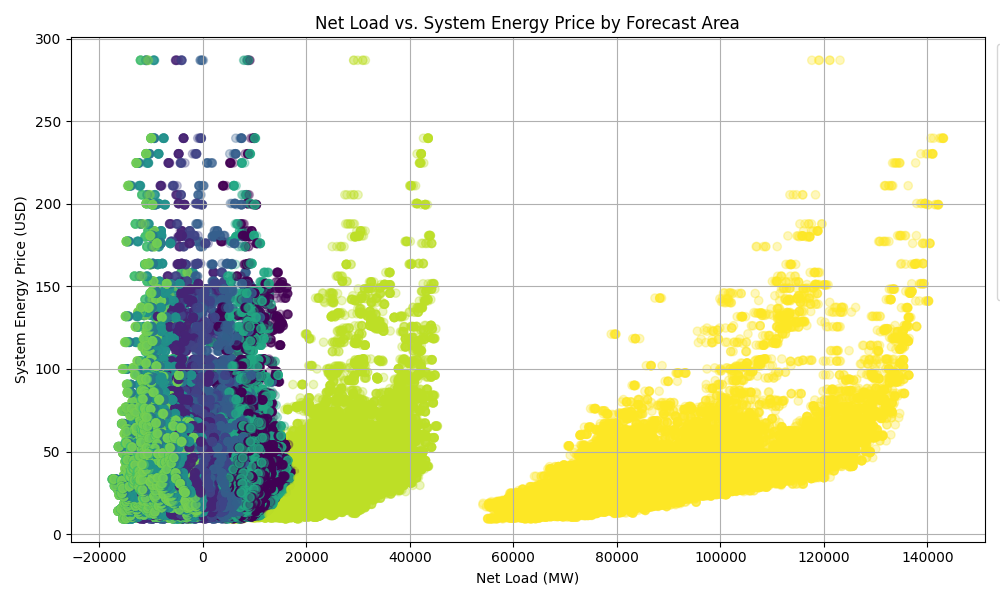
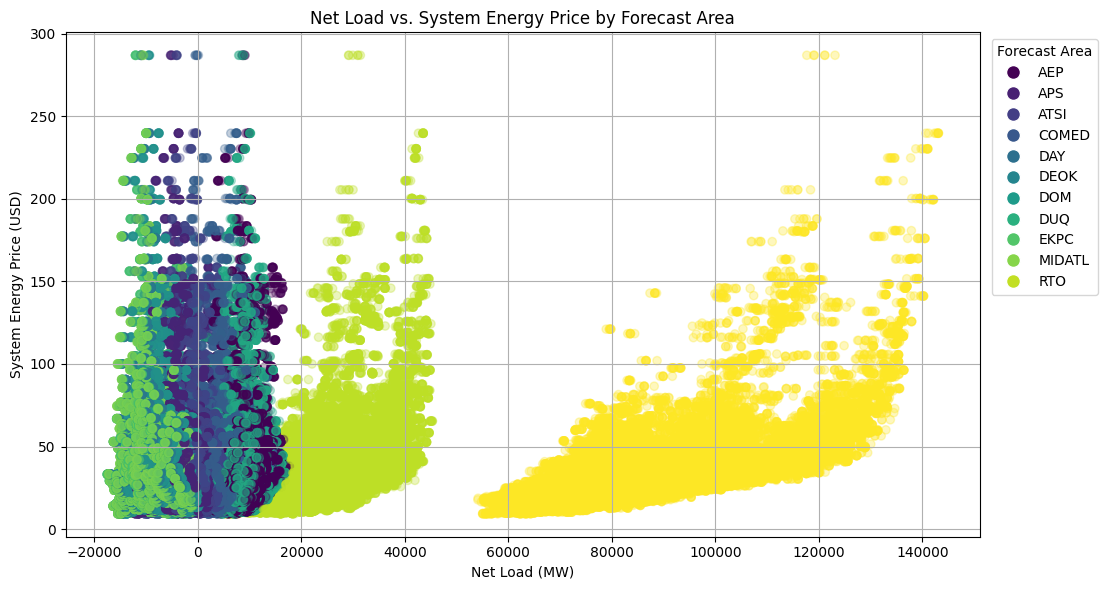
updated readme

Changed region(s): [[0.0, 0.0, 1.0, 0.9763]]

diff --git a/README.md b/README.md
@@ -1,5 +1,5 @@
 
-#CFT Energy Analysis
+# CFT Energy Analysis
 
 This repository contains the analysis and results of a cyclicality study of energy prices and net load in relation to fuel types, using historical data and various visualization techniques. The primary focus is on understanding the cyclic nature of energy prices and how different fuel types affect these prices on an hourly, daily, and monthly basis.
 
@@ -10,34 +10,52 @@ This repository contains the analysis and results of a cyclicality study of ener
 4. [Setup Instructions](#setup-instructions)
 5. [Analysis Breakdown](#analysis-breakdown)
 6. [Results](#results)
+7. [Key Figures](#key-figures)
 
 ## Project Overview
-The `CFT NME Energy Analysis` project aims to analyze the cyclicality of energy prices and their relationship with net load (load minus renewable generation), broken down into hourly, weekly, and monthly patterns. It uses data preparation, cyclicality analysis, and polynomial regression to identify patterns between energy prices and net load.
+The `CFT Energy Analysis` project aims to analyze the cyclicality of energy prices and their relationship with net load (load minus renewable generation), broken down into hourly, weekly, and monthly patterns. It uses data preparation, cyclicality analysis, and polynomial regression to identify patterns between energy prices and net load.
 
 ### Key Highlights:
 - **Hourly, Daily, and Monthly Cyclicality:** Energy prices fluctuate based on demand patterns, with gas showing the highest cyclicality.
 - **Net Load vs Energy Prices:** A regression analysis was performed to identify the relationship between net load and energy prices.
-  
+
 ## Key Features
-- **Cyclicality Analysis:** 
-  - Analyzes energy price cyclicality across different timeframes (hourly, weekly, and monthly).
-  - Highlights fuel type behaviors (gas, coal, nuclear) in terms of cyclicality.
+- **Cyclicality Analysis:**
+  - Analyze the cyclicality of energy prices and net load on an hourly, weekly, and monthly basis.
+  - Understand how fuel types like gas, coal, and nuclear behave throughout the day and seasons.
   
 - **Net Load & Energy Price Relationship:**
-  - Uses polynomial regression to model the relationship between net load and energy prices.
-  - Displays various polynomial degrees for detailed insights.
+  - Identify relationships between net load and energy prices using polynomial and exponential regression techniques.
 
-- **Visualization:** Clear plots of net load cyclicality and energy price trends are generated for better data interpretation.
+- **Visualization:**
+  - Clear plots showcasing net load, energy prices, and their relationships for easy interpretation.
 
 ## Data Sources
-- **Energy Prices**: Hourly system energy prices.
-- **Fuel Types**: Data regarding energy generation from different fuel types such as gas, nuclear, and coal.
-- **Net Load**: Calculated as the difference between total load and renewable generation (wind, solar, hydro).
+### **`df_generation_by_source`**:
+- **fuel_type**: Type of fuel used for energy generation (e.g., 'Coal', 'Gas', 'Nuclear', etc.).
+- **mw**: Amount of power generated in megawatts (MW).
+- **fuel_percentage_of_total**: Percentage of total energy generated by each fuel type.
+- **is_renewable**: Boolean indicating whether the fuel type is renewable.
+
+### **`df_historical_power_load`**:
+- **evaluated_at_utc**: Timestamp in UTC when the forecast was evaluated.
+- **evaluated_at_ept**: Same as above, in Eastern Prevailing Time (EPT).
+- **forecast_area**: Geographic area for which the energy load is being forecasted (e.g., AEP, APS, COMED, RTO).
+- **forecast_load_mw**: Forecasted electrical load (demand) for the specified area in megawatts (MW).
+
+### **`day_ahead_energy_price`**:
+- **pnode_id**: Unique ID for the pricing node in the grid.
+- **pnode_name**: Name or label associated with the PNode.
+- **system_energy_price_da**: Day-ahead forecast of system-wide energy prices.
+- **total_lmp_da**: Locational Marginal Price (LMP) including energy price, congestion costs, and marginal losses.
+
+### **Net Load**:
+- **net_load_mw**: The difference between total load and renewable generation (wind, solar, hydro).
 
 ## Setup Instructions
 1. Clone this repository to your local machine.
    ```bash
-   git clone https://github.com/your-username/cft-nme-energy-analysis.git
+   git clone https://github.com/your-username/cft-energy-analysis.git
    ```
 2. Install the required dependencies:
    ```bash
@@ -49,25 +67,45 @@ The `CFT NME Energy Analysis` project aims to analyze the cyclicality of energy 
    ```
 
 ## Analysis Breakdown
-1. **Hourly Cyclicality Analysis**: 
-   - The notebook performs a breakdown of energy prices on an hourly basis to detect daily trends, showing that prices tend to be lowest early in the morning and highest in the late afternoon.
-
+1. **Hourly Cyclicality Analysis**:
+   - The notebook analyzes energy price fluctuations throughout the day, showing that prices tend to be lowest in the early morning and highest in the late afternoon, reflecting daily demand cycles.
+   
 2. **Weekly Cyclicality**:
-   - Analysis of weekly energy prices shows that prices peak at the beginning of the week and drop as the weekend approaches.
+   - Energy price trends by day of the week show prices peaking on weekdays and declining towards the weekend due to varying demand.
 
 3. **Monthly Cyclicality**:
-   - Monthly analysis reveals higher prices in extreme temperature months like January (winter) and July (summer).
+   - Energy prices peak during months of extreme temperatures, such as in January (winter) and July (summer), indicating higher demand for heating and cooling.
 
-4. **Net Load vs Energy Price Analysis**:
-   - A regression analysis between net load and energy price is carried out. Several polynomial equations are used to best fit the data, demonstrating the complexity of the relationship between net load and energy price.
+4. **Net Load Analysis**:
+   - The net load (total load minus renewable generation) is analyzed for its cyclicality and its relationship to energy prices, revealing demand patterns across different time periods.
+
+5. **Regression Analysis**:
+   - Polynomial and exponential regression models are applied to determine the best-fit relationship between net load and energy prices. Various degrees of polynomial regression (up to degree 5) are tested.
 
 ## Results
 - **Fuel Type Cyclicality**: 
-  - Gas is the most cyclic fuel, showing significant fluctuations throughout the day.
-  - Nuclear remains stable with the least cyclic behavior.
-
-- **Energy Price Cyclicality**: 
-  - Prices are influenced by the time of day and the season, with peak demand driving up costs.
+  - Gas shows the highest cyclicality, fluctuating throughout the day, while nuclear remains the most stable energy source.
   
-- **Net Load vs Energy Price Regression**: 
-  - Different polynomial degrees (up to degree 5) were tested to find the best fit between net load and energy price data.
+- **Energy Price Cyclicality**: 
+  - Prices are influenced by the time of day and season, peaking during high-demand periods.
+
+- **Net Load vs Energy Price Regression**:
+  - Polynomial regression is used to explore the complex relationship between net load and energy prices. Higher-order polynomial degrees are applied to capture nonlinearities in the data.
+
+## Key Figures
+- **Net Load vs Price by Region**: 
+![All Regions Net Load vs Price Regression](plots/net_load_vs_energy_price_plots/net_load_vs_price_Forecast%20Area.png)
+
+- **All Regions Net Load vs Price Regression**: 
+![All Regions Net Load vs Price Regression](plots/net_load_vs_energy_price_plots/regression_combined_Forecast%20Area.png)
+
+- **NOT RTO Regions Net Load vs Energy Price Regression**:
+![NOT RTO Regions Net Load vs Price Regression](plots/net_load_vs_energy_price_plots/regression_combined_NOT%20RTO.png)
+  
+- **RTO Region Net Load vs Energy Price Regression**:
+![RTO Regions Net Load vs Price Regression](plots/net_load_vs_energy_price_plots/regression_combined_RTO.png)
+
+
+---
+
+This project showcases how energy prices and net load fluctuate based on time of day, season, and type of energy source used. By identifying cyclicality and relationships between these factors, we can better predict and respond to energy demand and price variations.
